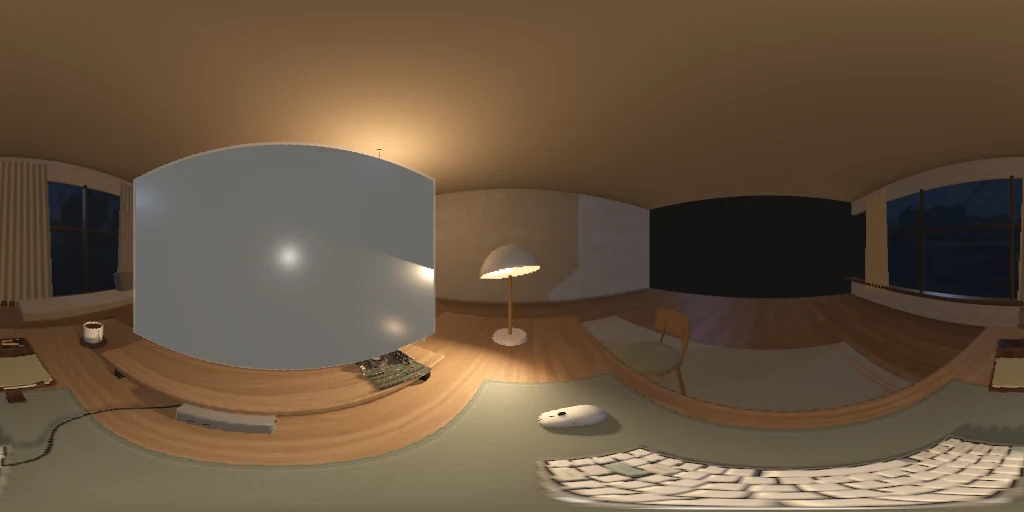
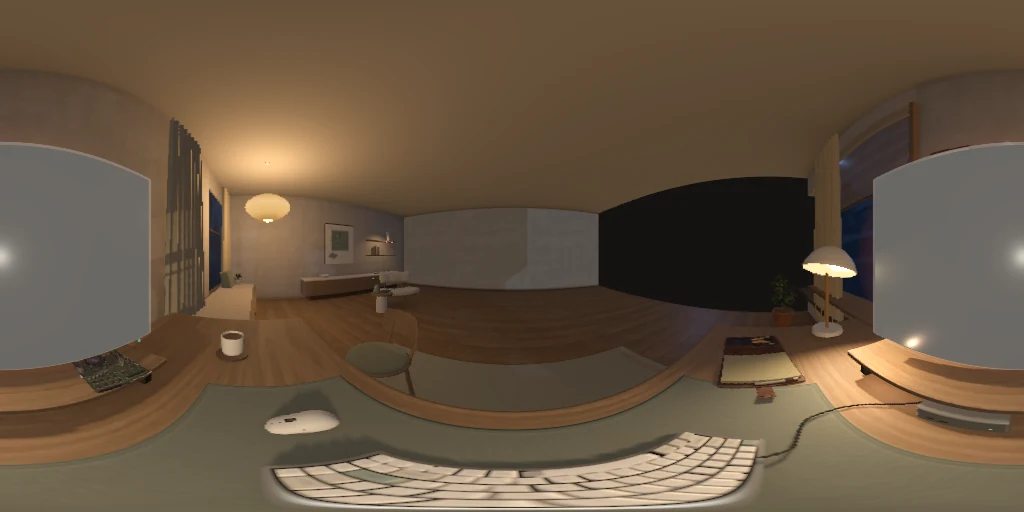
Stage a front-facing window desk and recompose the research page for mobile

diff --git a/site/room.js b/site/room.js
@@ -164,23 +164,54 @@ export function buildHome(previewUrl, onUpdate, lifecycle = {}) {
   box(.13, .51, 8.04, -3.43, .255, .34, plaster);
   box(.13, .46, 8.04, -3.43, 2.84, .34, plaster);
 
-  // A single continuous view beyond the four glazing panels.
-  const daySky = surfaceMap('./media/study/garden.webp', 1, 1);
-  const nightSky = surfaceMap('./media/study/garden-night.webp',1,1);
+  // A recessed garden window to the left of the monitor and a quiet plaster return behind it.
+  const daySky = surfaceMap('./media/study/window-garden.webp', 1, 1);
+  const nightSky = surfaceMap('./media/study/window-garden-night.webp',1,1);
 
   const windowPanes = [];
   for (const [i, z] of [-2.62, -.94, .74, 2.42].entries()) {
+    if (i === 1) continue;
+    if (i === 2) {
+      box(.15,3.04,3.36,-3.39,1.52,-.10,plaster).name='desk-wall';
+      box(.18,2.13,.035,-3.35,1.56,z+.83,paleOak);
+      continue;
+    }
     const glass = picture(1.69, 2.10, -3.40, 1.56, z, daySky);
     glass.rotateY(Math.PI / 2);
     const uv = glass.geometry.getAttribute('uv');
     for (let j = 0; j < uv.count; j++) {
-      uv.setXY(j, .15 + ((3 - i) + uv.getX(j)) * .113, .36 + uv.getY(j) * .30);
+      uv.setXY(j, (i===3 ? .27 : (3-i)/4) + uv.getX(j)/4, uv.getY(j));
     }
     windowPanes.push(glass);
     box(.085, 2.14, .045, -3.35, 1.56, z - .83, walnut);
-    box(.05, .028, 1.66, -3.34, 1.73, z, walnut);
+    if (i !== 3) box(.05,.028,1.66,-3.34,1.73,z,walnut);
   }
   box(.29, .068, 8.04, -3.30, .52, .34, oak);
+  // Deep sill and a woven Roman shade give the opening a visible reveal.
+  box(.36,.036,1.70,-3.26,.795,2.42,paleOak);
+  box(.14,.29,1.69,-3.40,.648,2.42,plaster);
+  const shadeCloth=canvasFabric.clone();
+  shadeCloth.color.setHex(0xcfb997);
+  shadeCloth.transparent = true;
+  shadeCloth.opacity = .69;
+  shadeCloth.depthWrite = false;
+  const blind=add(new THREE.PlaneGeometry(1.625,.86,40,32),shadeCloth,-3.286,2.17,2.42);
+  blind.rotation.y=Math.PI/2;
+  const pleats=blind.geometry.attributes.position;
+  for(let i=0;i<pleats.count;i++){
+    const v=(pleats.getY(i)+.43)/.86;
+    pleats.setZ(i,.014*Math.cos(v*Math.PI*10)+.014*Math.pow(1-v,4));
+  }
+  blind.geometry.computeVertexNormals();
+  box(.026,.020,1.626,-3.26,1.742,2.42,oak);
+  // A short oak ledge picks up the window reveal without putting a line behind the display.
+  box(.18,.023,.49,-3.22,1.73,1.16,paleOak);
+  for(const [i,cover] of [sage,cream,walnut].entries()) {
+    const book=rounded(.115,.019,.19,-3.20,1.752+.020*i,1.26,cover,scene,.002);
+    book.rotation.y=(i-1)*.035;
+  }
+  const budProfile=[[0,0],[.037,0],[.045,.025],[.043,.065],[.025,.086],[.019,.102],[.014,.102],[.014,.088]];
+  add(new THREE.LatheGeometry(budProfile.map(([r,h])=>new THREE.Vector2(r,h)),48),ceramic,-3.21,1.742,1.02,scene);
   const reflectedGlass = new THREE.MeshPhysicalMaterial({
     transparent:true, opacity:.04, color:0x81928f, roughness:.12, metalness:.76, depthWrite:false
   });
@@ -246,9 +277,10 @@ export function buildHome(previewUrl, onUpdate, lifecycle = {}) {
   seatPillow.rotation.z=.23;
 
   // Woven studio rug
-  const rug = add(new THREE.PlaneGeometry(3.55,2.86),rugMat,.05,.009,.19);
+  const rug = add(new THREE.PlaneGeometry(2.64,2.30),rugMat,-2.08,.009,.88);
   rug.name='rug';
   rug.rotation.x = -Math.PI/2;
+  rug.rotation.z = Math.PI/2;
   rug.castShadow = false;
   const occlusion = imageTexture(128,128,ctx => {
     const gradient = ctx.createRadialGradient(64,64,0,64,64,64);
@@ -267,7 +299,7 @@ export function buildHome(previewUrl, onUpdate, lifecycle = {}) {
   }
 
   contactShadow(.55,.007,-1.63,1.32,1.16,.68);
-  contactShadow(1.03,.005,-2.65,.95,.82,.72);
+  contactShadow(-2.74,.005,3.36,.82,.72,.72);
 
 
   // Furniture is loaded independently of the clickable screen.
@@ -297,7 +329,7 @@ export function buildHome(previewUrl, onUpdate, lifecycle = {}) {
   rounded(.24, .026, .15, .05, .462, .035, sage, table);
 
   // Pleated paper glows from within at night. The lathed ribs stay in silhouette in daylight.
-  const pendant = group(.89,2.11,-2.02);
+  const pendant = group(-2.30,2.11,-1.88);
   const profile = [];
   for (let i=0;i<=160;i++) {
     const t=i/160, rib=Math.pow(.5+.5*Math.cos(2*Math.PI*t*20),5);
@@ -382,11 +414,11 @@ export function buildHome(previewUrl, onUpdate, lifecycle = {}) {
   const bowlShape=[[0,0],[.084,0],[.092,.02],[.16,.074],[.158,.084],[.142,.08],[.077,.033],[0,.022]];
   add(new THREE.LatheGeometry(bowlShape.map(([r,h])=>new THREE.Vector2(r,h)),64),
     ceramic,-1.29,.623,.19,library);
-  placeModel('./media/study/potted_plant_01.glb',scene,1.03,.014,-2.65,1.33,-.50);
+  placeModel('./media/study/potted_plant_01.glb',scene,-2.74,.014,3.36,.96,-.50);
 
   // ==================== HERO ARCHITECT STUDIO DESK ====================
-  const desk = group(-.66, 0, -.42);
-  desk.rotation.y=-.11;
+  const desk = group(-2.65, 0, .88);
+  desk.rotation.y=Math.PI / 2;
   contactShadow(0,.013,.10,2.85,1.4,.42,desk);
   // Tabletop + subtle walnut apron frame underneath
   rounded(2.02, .058, .94, 0, .775, 0, paleOak, desk, .018);
@@ -529,7 +561,7 @@ export function buildHome(previewUrl, onUpdate, lifecycle = {}) {
   for(const z of [-.003,.014]) rounded(.003,.004,.013,-.031,.020,z,ink,mouse,.001);
   contactShadow(-.10,.808,.209,.40,.17,.58,desk);
   contactShadow(.192,.808,.222,.092,.15,.50,desk);
-  contactShadow(-.76,.807,-.19,.19,.14,.66,desk);
+  contactShadow(.58,.807,.056,.19,.14,.66,desk);
 
   // Oak riser with a compact workstation and front-panel I/O underneath.
   rounded(.88,.022,.195,-.09,.889,-.197,paleOak,desk,.009);
@@ -557,7 +589,7 @@ export function buildHome(previewUrl, onUpdate, lifecycle = {}) {
   // A leather notebook sits open on the daylight side, within reach of the chair.
   placeModel('./media/study/binder_notebook.glb',desk,-.64,.806,.19,.022,.19);
   // Artisan ceramic coffee mug + latte art + walnut coaster
-  const mug = group(-.76, .806, -.19, desk);
+  const mug = group(.58, .806, .056, desk);
   cylinder(.064, .064, .010, 0, .005, 0, walnut, mug);
   const cupProfile=[[0,0],[.034,0],[.040,.005],[.044,.016],[.046,.079],
     [.0458,.087],[.0448,.089],[.0428,.089],[.042,.087],[.041,.080],[.038,.018],[.032,.013],[0,.013]];
@@ -582,14 +614,15 @@ export function buildHome(previewUrl, onUpdate, lifecycle = {}) {
   add(new THREE.TubeGeometry(handlePath,40,.0048,14,false),ceramic,0,0,0,mug);
 
   // A shallow tilting shade, a satin stem and a weighted clay base.
-  const tableLamp=group(.72,0,.05,desk);
+  const tableLamp=group(-.90,0,-.17,desk);
+  tableLamp.rotation.y=Math.PI;
   const sand = new THREE.MeshPhysicalMaterial({color:0xe7d9c5,roughness:.57,clearcoat:.16,clearcoatRoughness:.45});
   cylinder(.081,.089,.023,0,.817,0,sand,tableLamp);
   cylinder(.010,.011,.396,0,1.021,0,brass,tableLamp);
   add(new THREE.SphereGeometry(.018,24,16),brass,0,1.223,0,tableLamp);
   const shadePivot=group(-.055,1.224,0,tableLamp);
   shadePivot.rotation.z=-.23;
-  shadePivot.rotation.x=-.20;
+  shadePivot.rotation.x=.26;
   const shellProfile=[[.012,.069],[.047,.063],[.078,.046],[.105,.020],[.129,-.016],[.141,-.049],[.142,-.056],[.138,-.060]];
   add(new THREE.LatheGeometry(shellProfile.slice().reverse().map(([r,h])=>new THREE.Vector2(r,h)),80),sand,0,0,0,shadePivot);
   const reflector=new THREE.MeshStandardMaterial({color:0xf0e9d9,roughness:.7,emissive:0xffcb8c});
@@ -598,7 +631,7 @@ export function buildHome(previewUrl, onUpdate, lifecycle = {}) {
   const deskBeam=new THREE.SpotLight(0xffd8aa,0,3.8,Math.PI/3.15,.94,2);
   deskBeam.position.set(-.014,-.065,.01);
   shadePivot.add(deskBeam);
-  deskBeam.target.position.set(.23,.98,-.12);
+  deskBeam.target.position.set(-.20,.94,-.13);
   desk.add(deskBeam.target);
   deskBeam.castShadow=true;
   deskBeam.shadow.mapSize.set(768,768);
@@ -606,12 +639,12 @@ export function buildHome(previewUrl, onUpdate, lifecycle = {}) {
   deskBeam.shadow.normalBias=.002;
   deskBeam.shadow.bias=-.0003;
   const lampBounce=new THREE.PointLight(0xffcca0,0,1.8,2);
-  lampBounce.position.set(.36,.922,.072);
+  lampBounce.position.set(-.39,.94,-.10);
   desk.add(lampBounce);
   // ==================== PRO STUDIO MONITOR + ANIMATED CLICK AFFORDANCE ====================
   const screenWidth = .84, screenHeight = .525;
   const monitor = group(-.06, 1.245, -.19,desk);
-  monitor.rotation.y = -.065;
+
   // Precision anodized chassis
   rounded(screenWidth + .017, screenHeight + .022, .033, 0, 0, -.005, ink, monitor, .018);
   // Subtle status LED dot on bottom right bezel
@@ -815,6 +848,7 @@ export function buildHome(previewUrl, onUpdate, lifecycle = {}) {
 
   // These visibility maps were traced against the furnished room, including the instanced keys and furniture.
   for (const [name,url] of [
+    ['desk-wall','./media/study/ao-desk-wall.webp'],
     ['floor','./media/study/ao-floor.webp'],['back-wall','./media/study/ao-back-wall.webp'],
     ['ceiling','./media/study/ao-ceiling.webp'],['rug','./media/study/ao-rug.webp'],
     ['worktop','./media/study/ao-worktop.webp'],['desk-felt','./media/study/ao-desk-felt.webp']

diff --git a/site/lab.js b/site/lab.js
@@ -376,11 +376,13 @@ async function initRoom() {
       renderer.render(scene, camera);
     }
     function entrance() {
-      // In portrait, frame the screen and keys together; open the shot toward the reading chair as space permits.
-      const wide = THREE.MathUtils.smoothstep(camera.aspect, .72, 1.45);
-      const mix = (narrow, landscape) => THREE.MathUtils.lerp(narrow, landscape, wide);
-      deskShot.position.set(mix(.06,.32), mix(1.43,1.53), mix(1.37,1.89));
-      deskShot.lookAt(mix(-.71,-.42), mix(1.10,1.23), mix(-.63,-.66));
+      // Parallel desk and camera axes keep the worktop horizontal. Offset the camera itself
+      // to leave breathing room on the garden side, without turning it toward the monitor.
+      const wide = THREE.MathUtils.smoothstep(camera.aspect,.72,1.45);
+      const mix = (phone, landscape) => THREE.MathUtils.lerp(phone, landscape, wide);
+      const z = mix(1.075,1.30);
+      deskShot.position.set(mix(-.27,-.54),mix(1.45,1.35),z);
+      deskShot.lookAt(-2.85,mix(1.08,1.18),z);
       return { position: deskShot.position.clone(), orientation: deskShot.quaternion.clone() };
     }
     function fitMonitor() {
@@ -407,7 +409,7 @@ async function initRoom() {
       const w = canvas.clientWidth, h = canvas.clientHeight;
       if (!w || !h) return;
       camera.aspect = w / h;
-      camera.fov = THREE.MathUtils.lerp(57,42,THREE.MathUtils.smoothstep(camera.aspect,.72,1.45));
+      camera.fov = THREE.MathUtils.lerp(57,39,THREE.MathUtils.smoothstep(camera.aspect,.72,1.45));
       camera.updateProjectionMatrix();
       renderer.setSize(w, h, false);
       if (!flying && !document.body.classList.contains('paper-active')) reset(true);

diff --git a/site/site.css b/site/site.css
@@ -2283,3 +2283,23 @@ body.is-night .study-loading { background:radial-gradient(ellipse at 50% 46%,#30
   @keyframes study-appear { from {opacity:0;transform:translateY(5px);} to {opacity:1;transform:none;} }
 }
 @media (prefers-reduced-motion:reduce) { .study-loading,#loading-progress {transition:none;} }
+
+@media (max-width:600px) {
+  .nav-inner { display:grid; grid-template-columns:minmax(0,1fr) auto; gap:5px 8px; padding-block:5px; }
+  .paper-nav nav { grid-column:1 / -1; justify-content:space-around; width:100%; }
+  .header-actions { gap:3px; }
+  .header-actions button { padding:5px 8px; min-height:33px; }
+  .header-actions .theme-label { display:none; }
+  .header-actions .theme-switch { min-width:33px; justify-content:center; }
+  .paper-nav .wordmark { font-size:.88rem; gap:6px; }
+  .paper-hero { display:flex; flex-direction:column; padding-top:27px; }
+  .paper-subtitle { max-width:30ch; text-wrap:balance; }
+  .paper-intro { text-wrap:pretty; }
+  .hero-actions { gap:6px; margin-top:18px; }
+  .hero-actions a { padding:8px 12px; font-size:.84rem; }
+  .hero-metrics { order:2; gap:0; margin-top:16px; border-block:1px solid var(--line); }
+  .hero-metrics .kpi-card { border:none; box-shadow:none; background:transparent; padding:12px 10px; border-radius:0; }
+  .hero-metrics .kpi-card:nth-child(2n) { border-left:1px solid var(--line); }
+  .hero-metrics .kpi-card:nth-child(n+3) { border-top:1px solid var(--line); }
+  .hero-teaser { margin-top:19px; }
+}

diff --git a/site/index.html b/site/index.html
@@ -68,7 +68,7 @@
           <svg viewBox="0 0 20 20" width="15" height="15" fill="currentColor" aria-hidden="true"><path fill-rule="evenodd" d="M10 1.8a8.2 8.2 0 0 0-2.59 15.98c.41.08.56-.18.56-.4v-1.4c-2.28.5-2.76-1.1-2.76-1.1-.37-.95-.91-1.2-.91-1.2-.75-.51.06-.5.06-.5.82.06 1.26.85 1.26.85.73 1.25 1.92.89 2.39.68.07-.53.29-.89.52-1.1-1.82-.21-3.73-.91-3.73-4.05 0-.9.32-1.63.85-2.2-.09-.21-.37-1.04.08-2.17 0 0 .69-.22 2.26.84a7.8 7.8 0 0 1 4.12 0c1.57-1.06 2.26-.84 2.26-.84.45 1.13.17 1.96.08 2.17.53.57.85 1.3.85 2.2 0 3.15-1.92 3.84-3.75 4.04.3.26.56.76.56 1.54v2.28c0 .22.15.48.57.4A8.2 8.2 0 0 0 10 1.8Z" clip-rule="evenodd"/></svg>
           <span>GitHub</span>
         </a>
-        <a class="quiet-button" href="https://github.com/Runder-sun/EmbodiedStudio/releases/tag/v0.1.0-rc1" target="_blank" rel="noopener" data-en="Release v0.1.0-rc1">下载源码</a>
+        <a class="quiet-button" href="https://github.com/Runder-sun/EmbodiedStudio/releases/tag/v0.1.0-rc1" target="_blank" rel="noopener" title="v0.1.0-rc1" data-en="Release">下载源码</a>
       </div>
 
       <div class="hero-metrics" aria-label="核心指标" data-aria-en="Key metrics">
